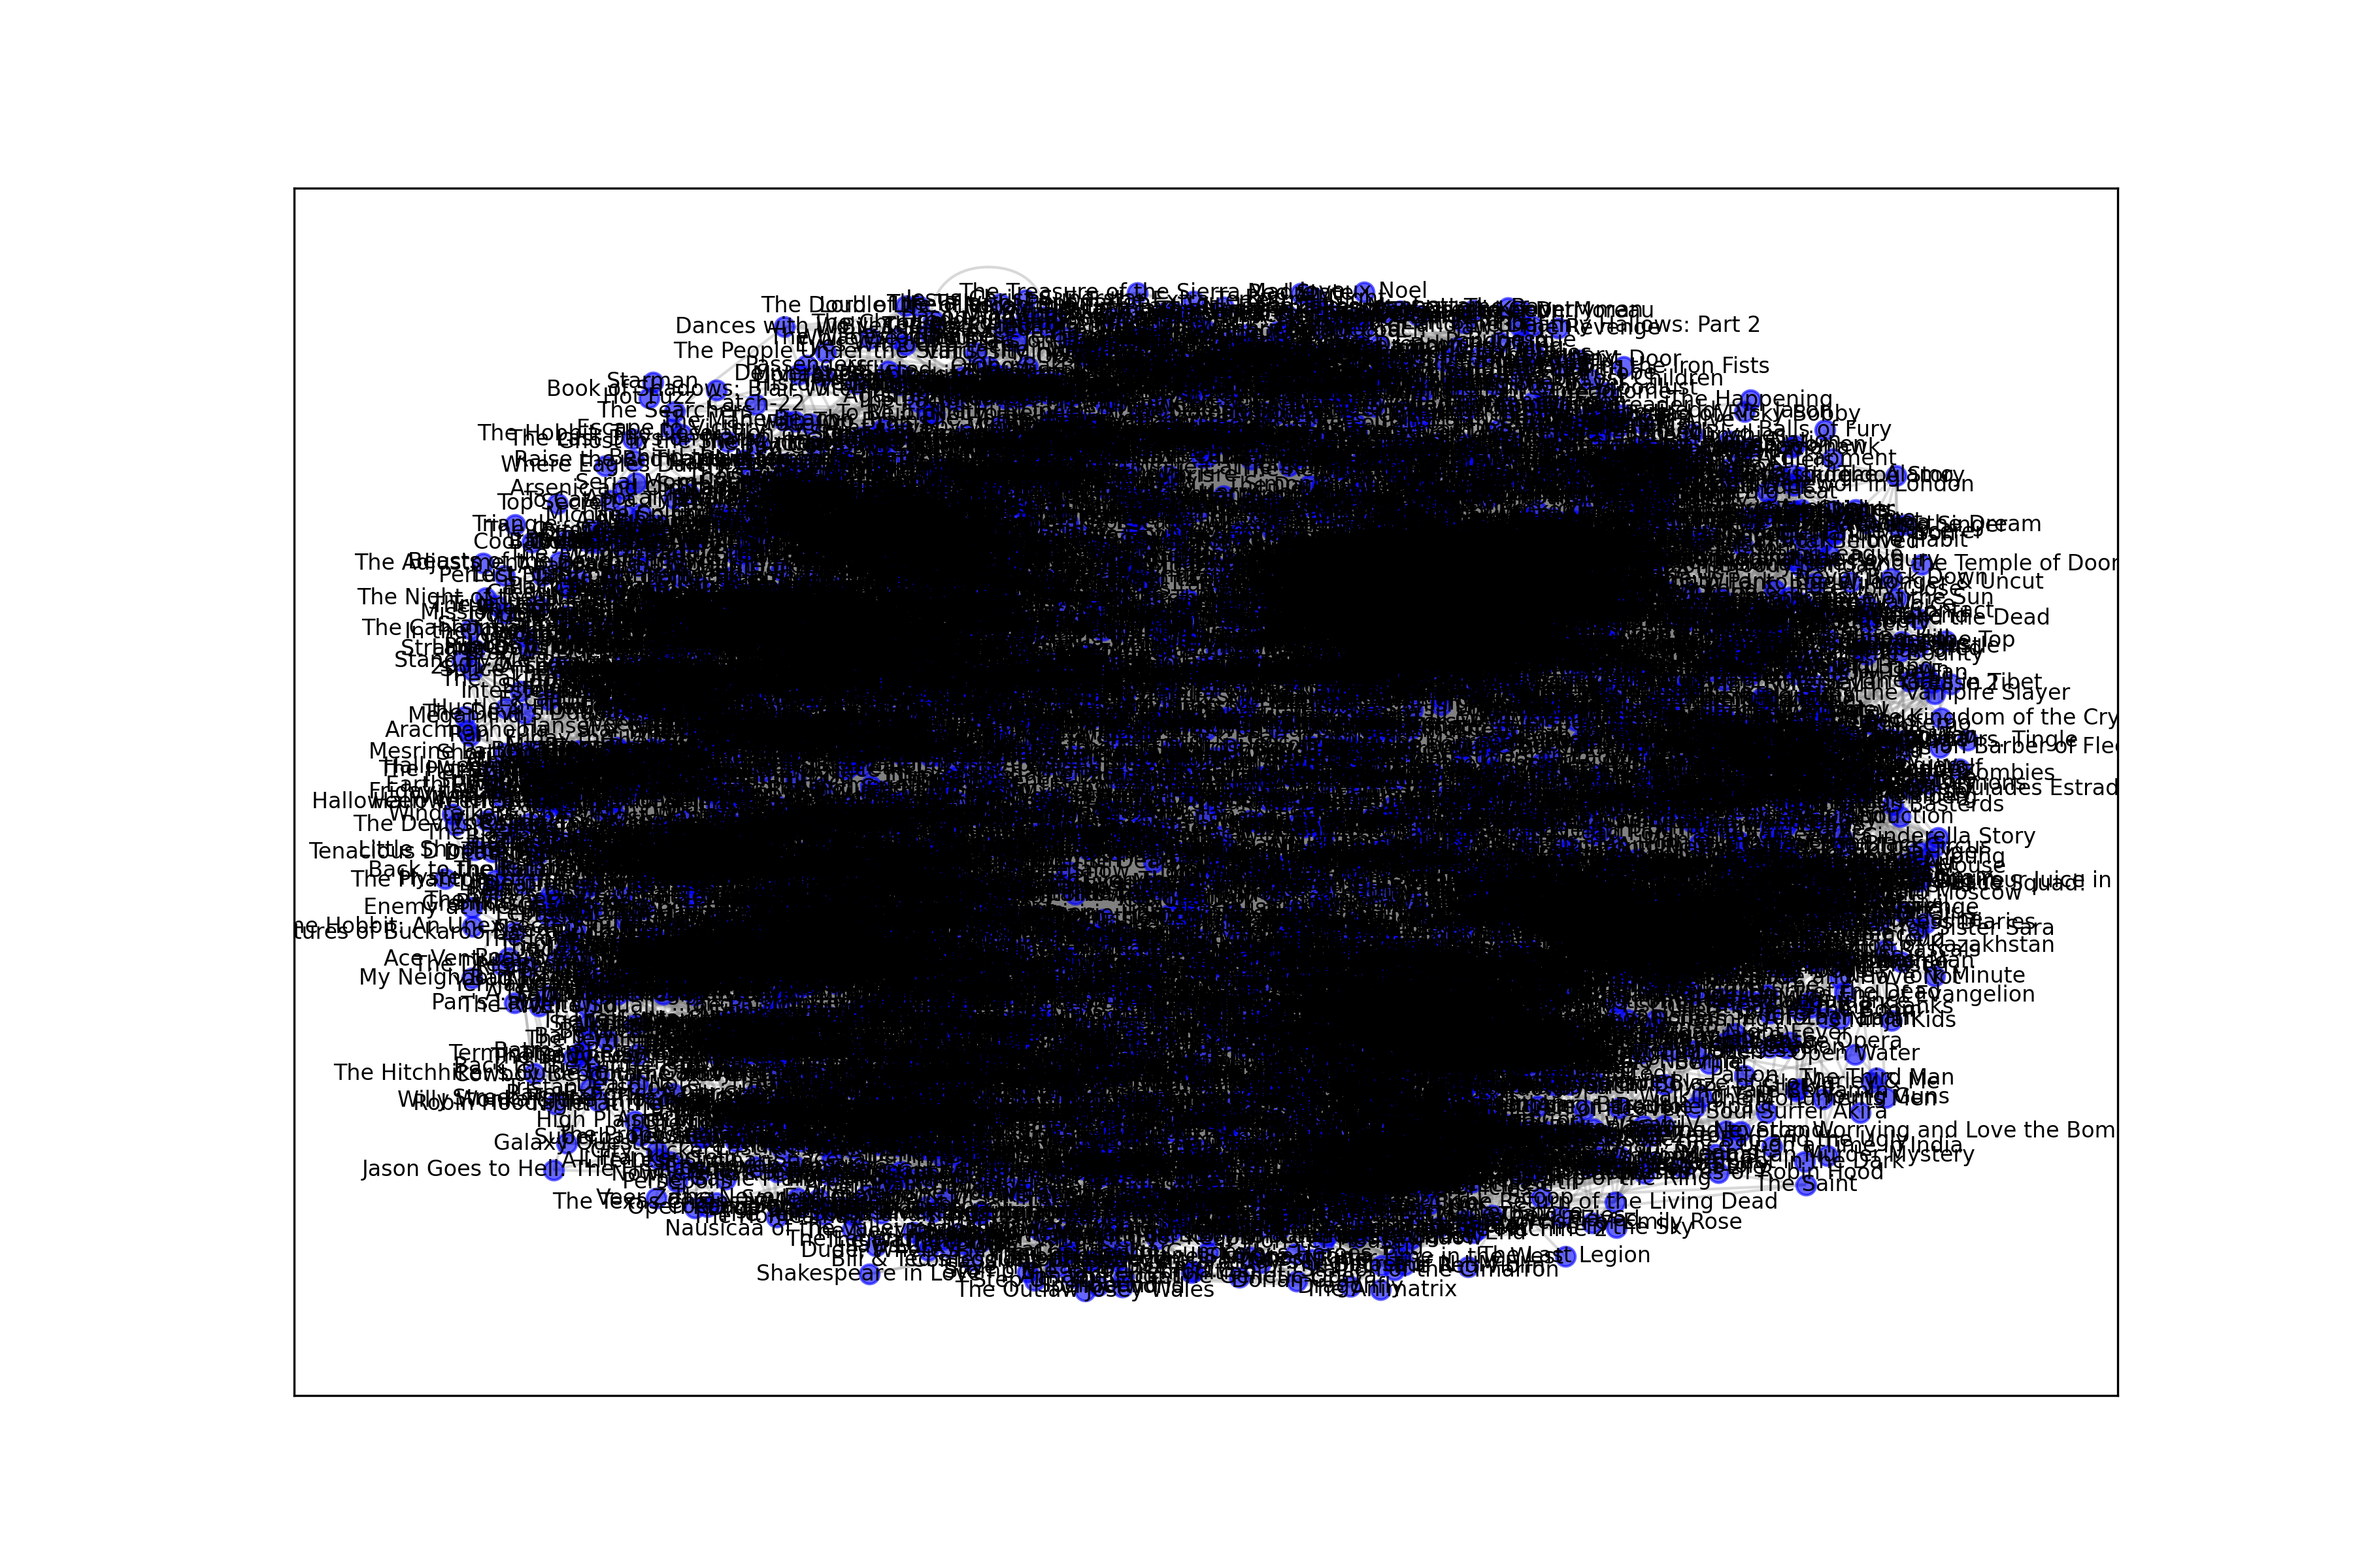
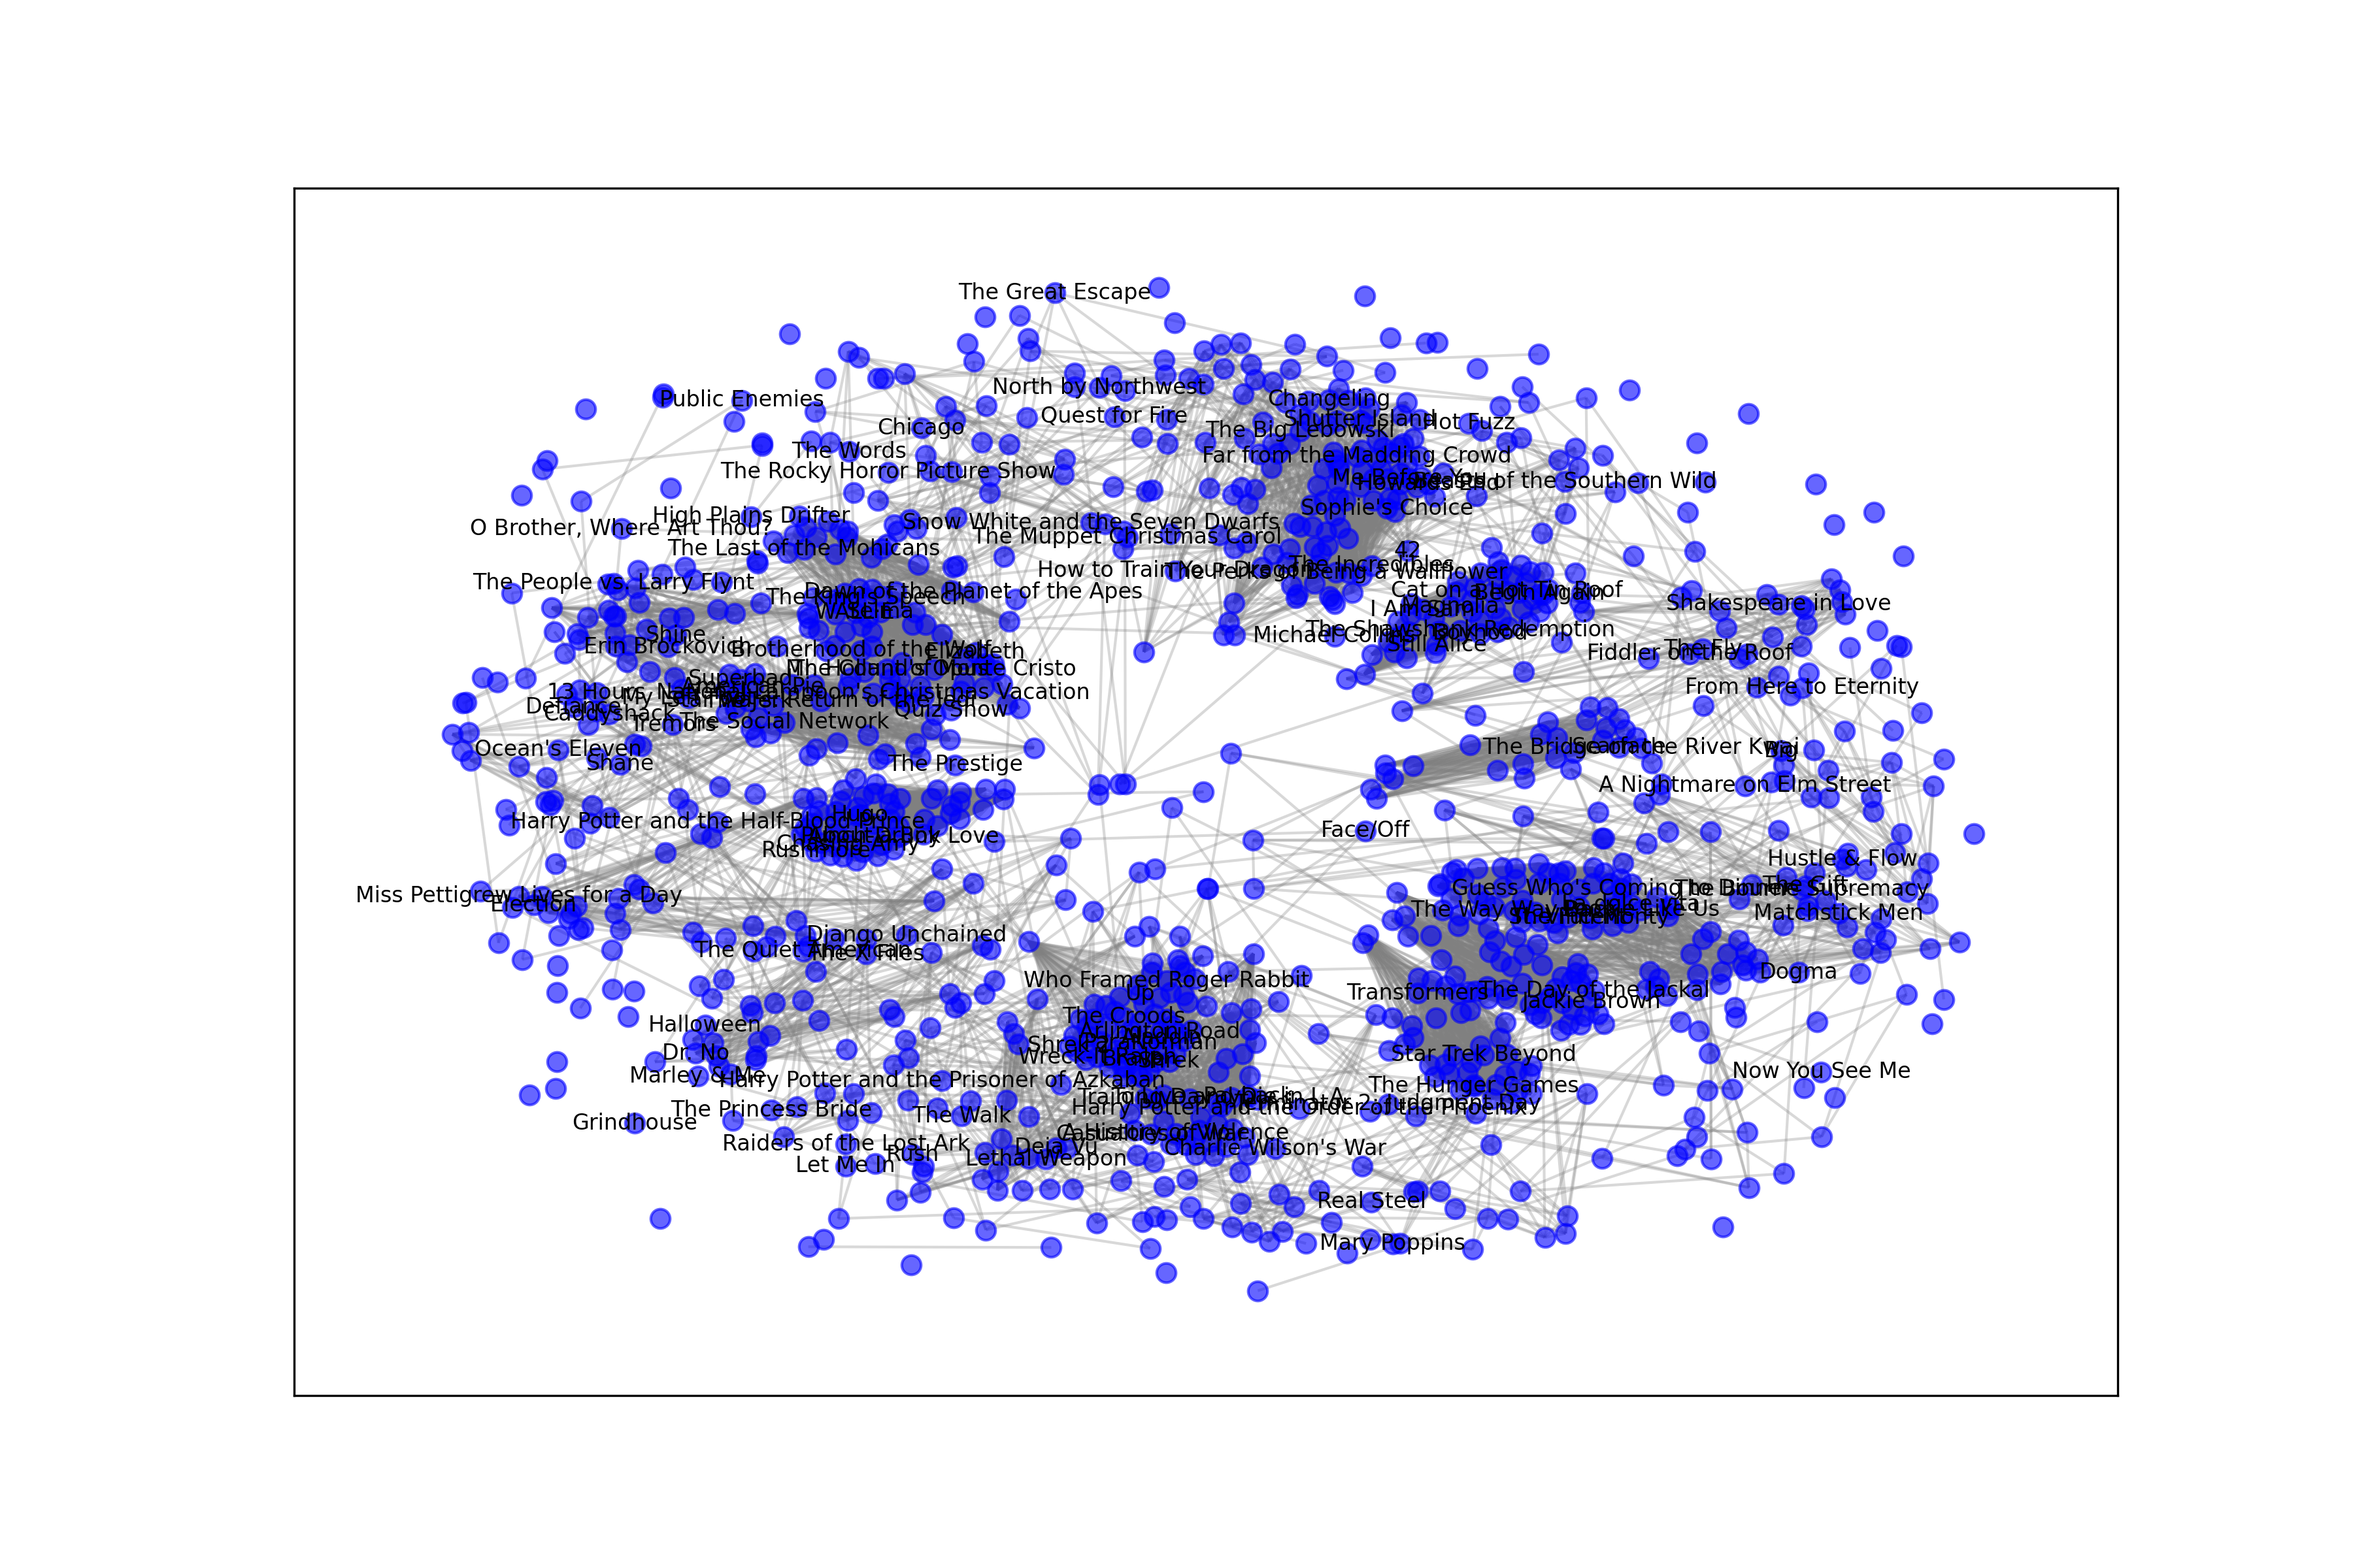
Commit 20/01 17:52

diff --git a/main.py b/main.py
@@ -1,33 +1,26 @@
 import pandas as pd
 import networkx as nx
 import matplotlib
-matplotlib.use('TkAgg')  # Para usar o backend interativo TkAgg
 import matplotlib.pyplot as plt
 import numpy as np
 from sklearn.metrics.pairwise import cosine_similarity
 from sklearn.preprocessing import MinMaxScaler
+import time  # Import para medir o tempo de execução
+
+matplotlib.use('TkAgg')  # Para usar o backend interativo TkAgg
 
 # Step 1: Load Dataset
 def load_data(file_path):
     """Load movie dataset from CSV."""
     df = pd.read_csv(file_path)
-    print(df['runtime'].unique())
     return df
 
-def preprocess_data(df):
-    """Normalize numerical features and encode genres."""
+def preprocess_data(df, revenue_threshold, rating_threshold):
+    """Filter dataset and preprocess."""
     scaler = MinMaxScaler()
 
-    # Clean 'runtime' column
-    print("Valores originais em runtime:", df['runtime'].unique())  # Diagnóstico
-    df['runtime'] = df['runtime'].replace({'N/A': None, 'Unknown': None})  # Substituir valores problemáticos
-    df['runtime'] = df['runtime'].str.extract(r'(\d+)').astype(float)
-    print("Valores ausentes após extração:", df['runtime'].isnull().sum())  # Diagnóstico
-
-    # Trate valores ausentes com a mediana
-    df['runtime'] = df['runtime'].fillna(df['runtime'].median())
-
-    # Processamento das outras colunas (mantido)
+    # Filtrar por receita e nota
+    print(f"Filtrando filmes com receita maior que {revenue_threshold} e nota maior que {rating_threshold}...")
     df['gross_earn'] = (
         df['gross_earn']
         .str.replace('[\\$,]', '', regex=True)
@@ -35,9 +28,19 @@ def preprocess_data(df):
         .str.replace('K', 'e3', regex=False)
         .astype(float)
     )
+    df = df[(df['gross_earn'] >= revenue_threshold) & (df['rating'] >= rating_threshold)]
+
+    # Tratar valores faltantes
+    df['runtime'] = df['runtime'].replace({'N/A': None, 'Unknown': None})
+    df['runtime'] = df['runtime'].str.extract(r'(\d+)').astype(float)
+    df['runtime'] = df['runtime'].fillna(df['runtime'].median())
     df['gross_earn'] = df['gross_earn'].fillna(df['gross_earn'].median())
     df['genre'] = df['genre'].fillna("Unknown")
+
+    # Normalizar colunas numéricas
     df[['rating', 'runtime', 'gross_earn']] = scaler.fit_transform(df[['rating', 'runtime', 'gross_earn']])
+    
+    # Codificar gêneros
     genre_encoded = pd.get_dummies(df['genre'], prefix='genre')
     df = pd.concat([df, genre_encoded], axis=1)
 
@@ -93,8 +96,9 @@ def visualize_graph(G):
     # Desenha as arestas com opacidade ajustada
     nx.draw_networkx_edges(G, pos, alpha=0.3, width=1, edge_color='gray')
     
-    # Adiciona os rótulos (nomes dos nós)
-    nx.draw_networkx_labels(G, pos, font_size=8, font_color='black')
+    # Adiciona os rótulos (limita a exibição)
+    labels = {node: node for node in G.nodes if np.random.rand() > 0.9}  # Exibe ~10% dos rótulos
+    nx.draw_networkx_labels(G, pos, labels, font_size=8, font_color='black')
     
     # Salva o gráfico como uma imagem PNG
     plt.savefig("graph_output.png", format="png", dpi=300)
@@ -104,24 +108,35 @@ def visualize_graph(G):
     plt.axis('off')  # Desativa os eixos para uma visualização mais limpa
     plt.show()
 
+# Measure Execution Time
+def measure_execution_time(func, *args, **kwargs):
+    """Measure the execution time of a function."""
+    start_time = time.time()
+    result = func(*args, **kwargs)
+    end_time = time.time()
+    print(f"Execution time for {func.__name__}: {end_time - start_time:.2f} seconds")
+    return result
+
 # Main Function
 def main():
     file_path = 'movies2.csv'  # Replace with the path to your dataset
+    revenue_threshold = 1e7  # Receita mínima: 10 milhões
+    rating_threshold = 7  # Nota mínima: 7
     
     print("Loading dataset...")
-    df = load_data(file_path)
+    df = measure_execution_time(load_data, file_path)
     
     print("Preprocessing data...")
-    df = preprocess_data(df)
+    df = measure_execution_time(preprocess_data, df, revenue_threshold, rating_threshold)
     
     print("Creating graph...")
-    G = create_graph(df)
+    G = measure_execution_time(create_graph, df)
     
     print("Analyzing graph...")
-    analyze_graph(G)
+    measure_execution_time(analyze_graph, G)
     
     print("Visualizing graph...")
-    visualize_graph(G)
+    measure_execution_time(visualize_graph, G)
 
 if __name__ == "__main__":
     main()
